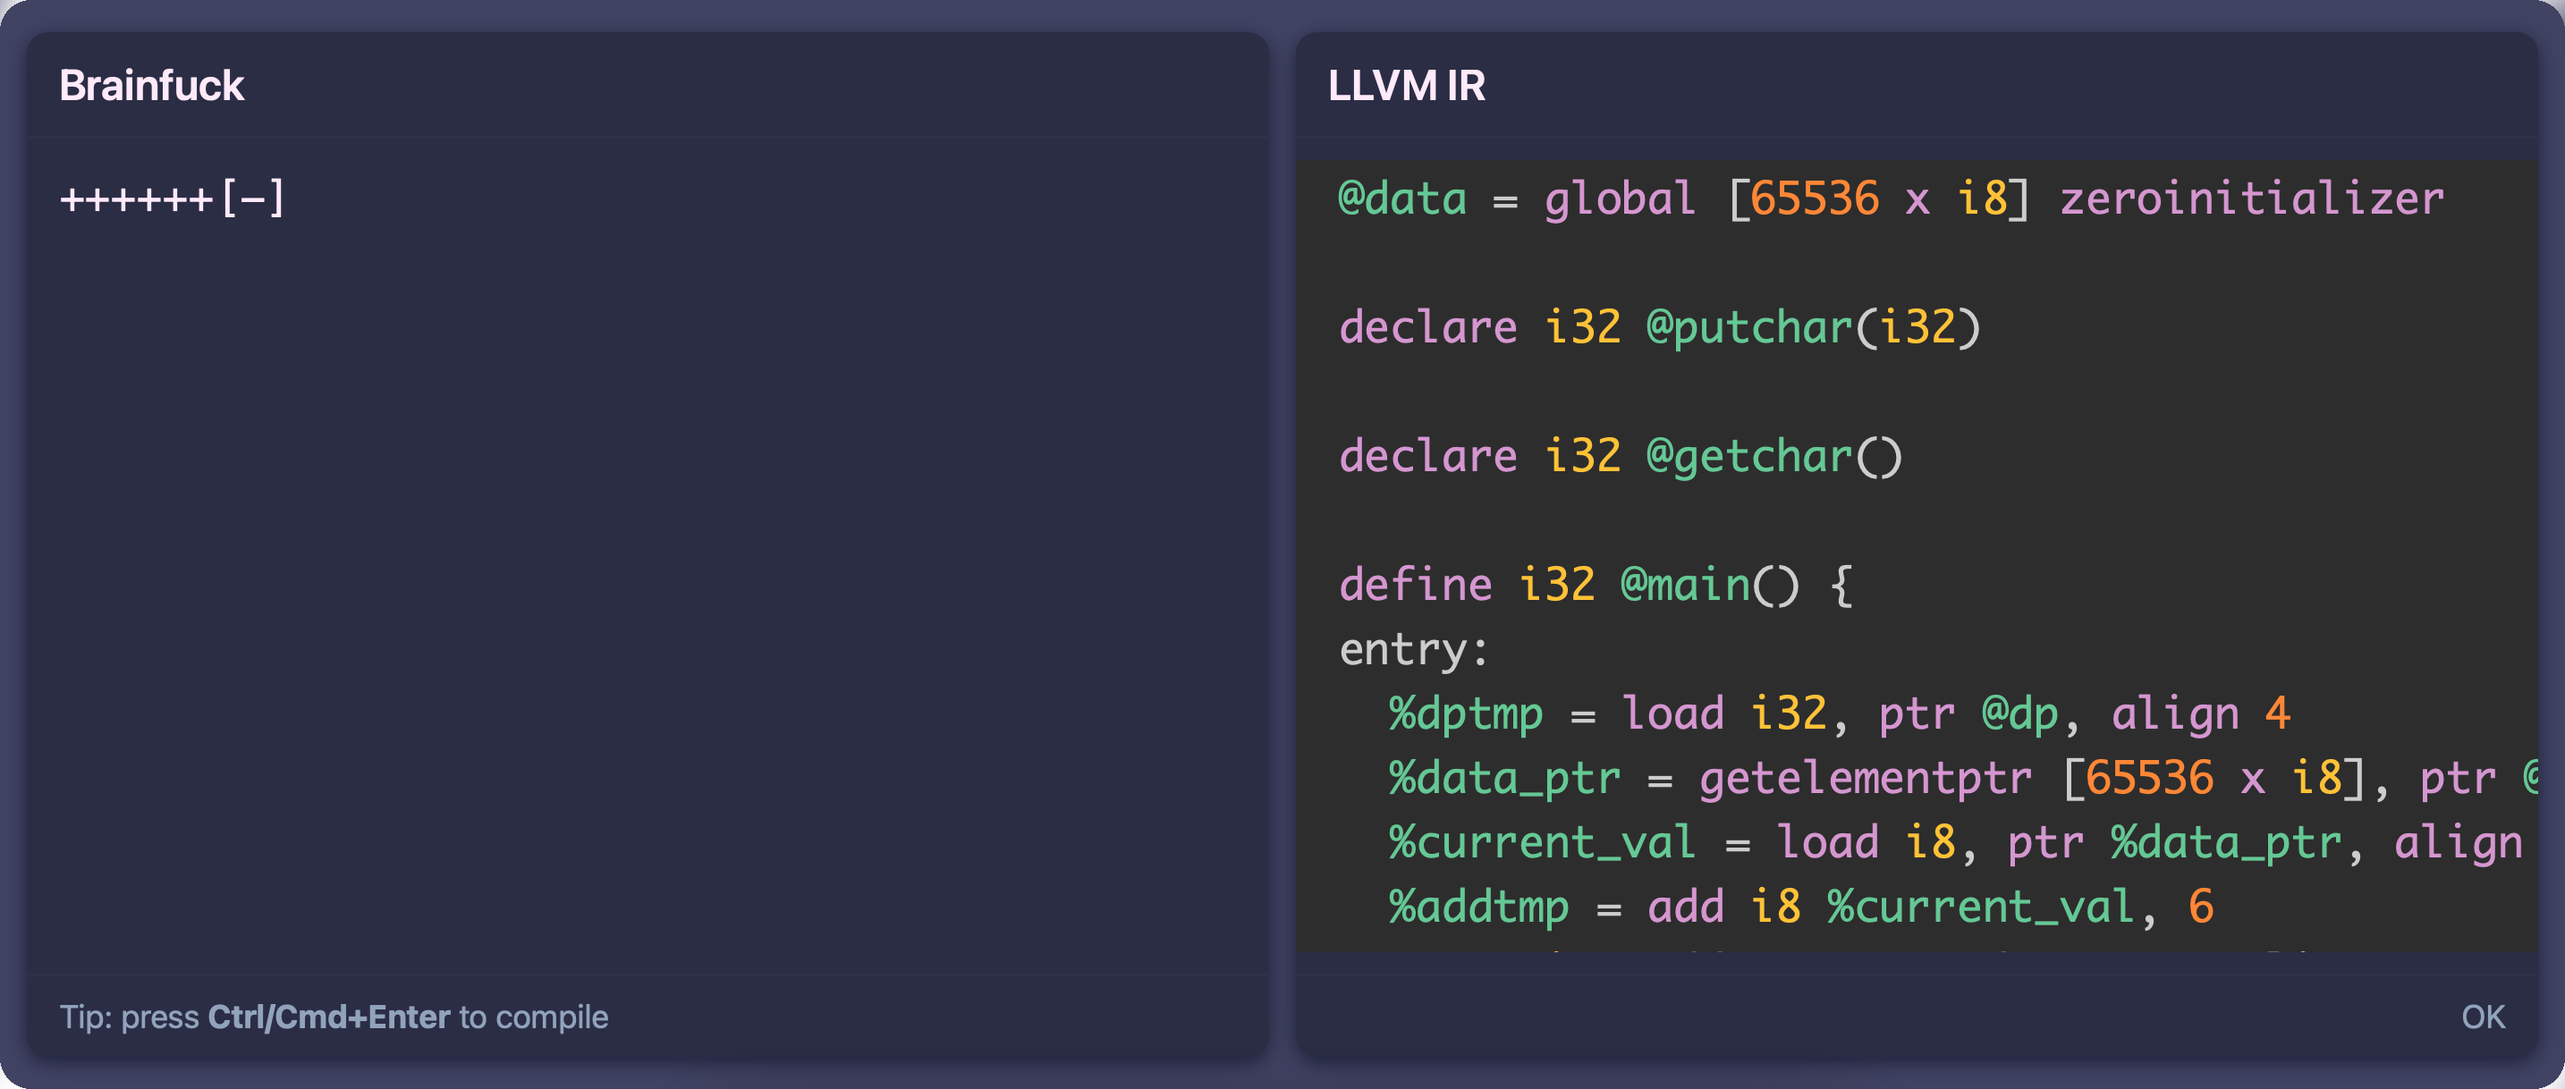
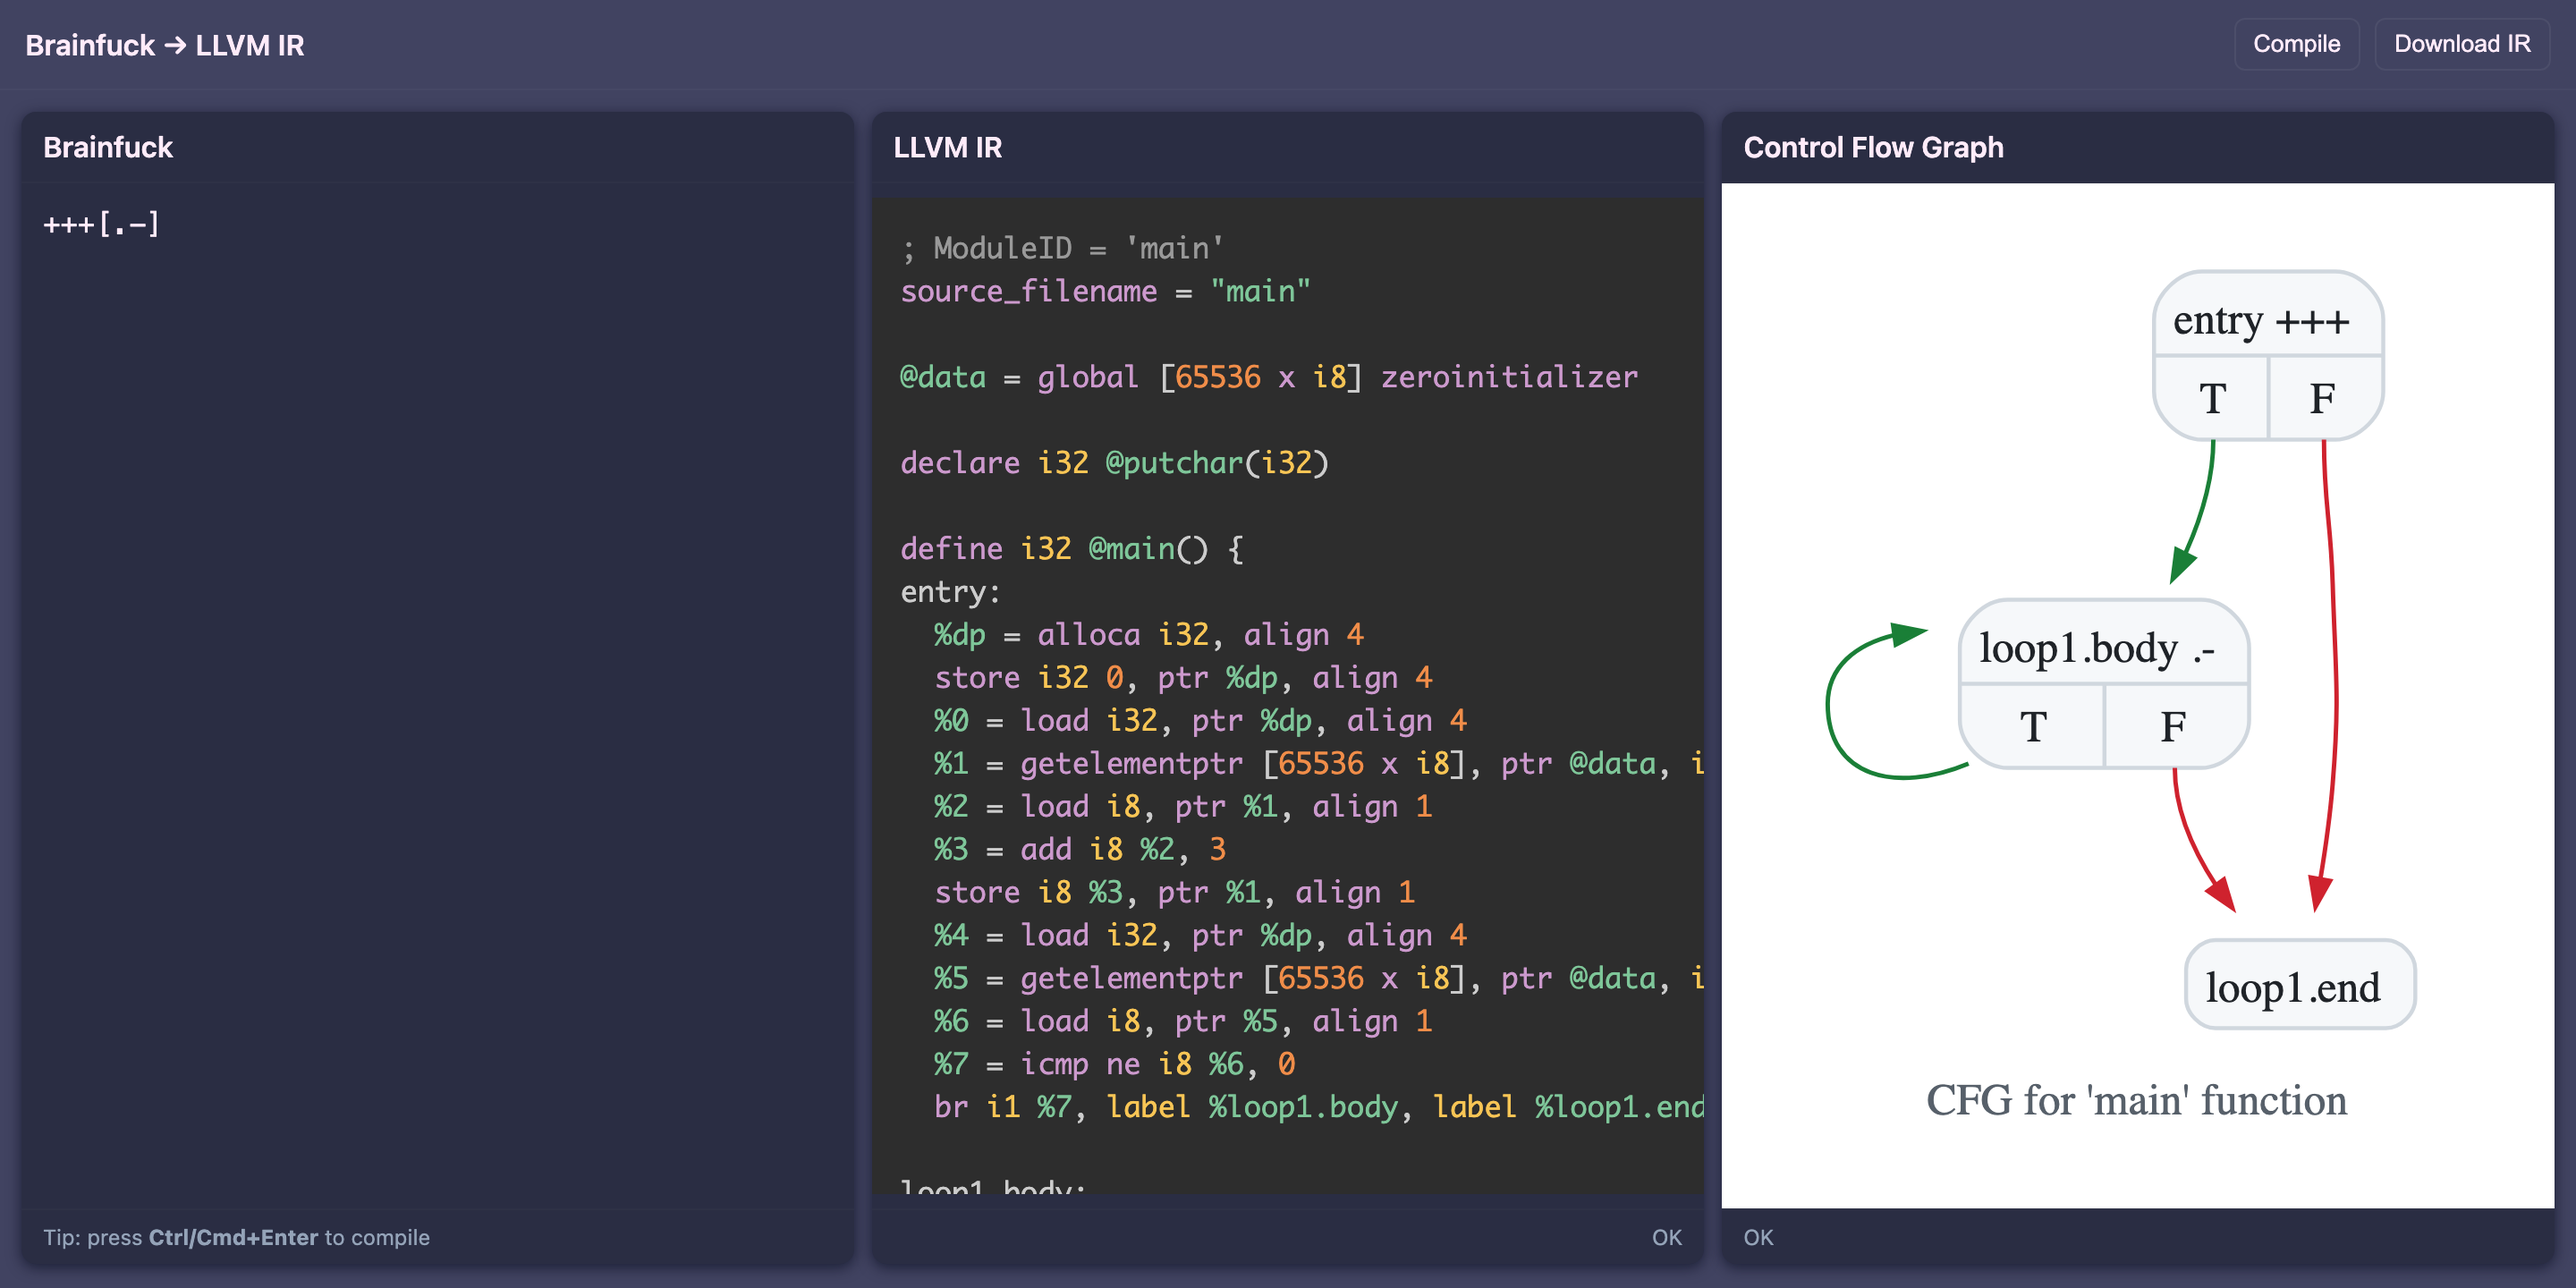
docs: document the CFG web pane and the --emit-cfg-dot pipeline
Note in the README that the web UI now shows the control flow graph
beside the source and IR, and rewrite the CFG section: bfc emits the dot
itself via --emit-cfg-dot (with --cfg-instructions for -i), so cfg.sh no
longer shells out to opt and there is no LLVM version skew to guard
against. Refresh the screenshot to the three-pane layout.

Update CLAUDE.md to match — the new bfc flag and graphing command, the
cfg_dot.cpp module and why the devShell now builds with the wrapped-clang
stdenv, and the backend's Graphviz/Python runtime dependencies.

diff --git a/CLAUDE.md b/CLAUDE.md
@@ -6,10 +6,10 @@ This file provides guidance to Claude Code (claude.ai/code) when working with co
 
 A Brainfuck-to-LLVM-IR compiler frontend written in C17. Produces two executables:
 
-- **`bfc`** — compiler: reads `.b` files (or stdin), emits LLVM IR to stdout
+- **`bfc`** — compiler: reads `.b` files (or stdin), emits LLVM IR to stdout, or the control flow graph as Graphviz dot with `--emit-cfg-dot`
 - **`bfi`** — interpreter: reads `.b` files and executes them directly
 
-Run the web demo with `docker compose up` (served at `http://localhost:8080`).
+Run the web demo with `docker compose up` (served at `http://localhost:8080`); it shows the source, compiled IR, and control flow graph side by side. The backend renders the graph via `bfc --emit-cfg-dot` → `highlight.py` → `dot`, so its runtime image also carries Graphviz and Python.
 
 ## Build
 
@@ -43,12 +43,11 @@ build/bfi test/res/helloworld.b
 `bfc` also reads from stdin when no file argument is given.
 
 ```bash
-# Graph the CFG (see README "Visualising the Control Flow Graph")
-build/bfc --label-blocks test/res/fib.b > fib.ll
-opt -passes=dot-cfg-only -disable-output fib.ll && dot -Tpng .main.dot -o cfg.png
+# Graph the CFG (raw dot; scripts/cfg.sh themes it — see README)
+build/bfc --emit-cfg-dot --label-blocks test/res/fib.b | dot -Tpng -o cfg.png
 ```
 
-`--label-blocks` appends each block's Brainfuck source span to its name. Use it without `-O`, since `simplifycfg` merges and renames blocks. `opt` must match the LLVM version `bfc` links against.
+`--emit-cfg-dot` makes `bfc` emit the control flow graph as Graphviz dot instead of LLVM IR (`--cfg-instructions` includes each block's instructions). `--label-blocks` appends each block's Brainfuck source span to its name; use it without `-O`, since `simplifycfg` merges and renames blocks.
 
 ## Common Build Targets
 
@@ -77,6 +76,8 @@ read.c  →  ir.c  →  interp.c (bfi path)
 **`ir.c/h`** — Parsing into the internal IR. `string_to_program()` converts a cleaned source string into a `struct program` — a heap-allocated array of `struct cmd`. The IR compresses consecutive identical simple commands into a single entry with a `simple_count` field, and pre-computes matching bracket indices stored in `jump_index` (no runtime bracket matching needed during execution).
 
 **`llvm.c/h`** — LLVM IR code generation. `generate()` takes a `struct program` and returns an `LLVMModuleRef`. Uses the LLVM-C API (`llvm-c/Core.h`).
+
+**`cfg_dot.cpp/h`** — Control-flow-graph emission, behind `bfc --emit-cfg-dot`. `emit_cfg_dot()` writes the module's CFG as Graphviz dot via LLVM's C++ `WriteGraph`. The project's only C++ translation unit, so the devShell builds with the wrapped-clang stdenv (see `flake.nix`).
 
 **`interp.c/h`** — Tree-walking interpreter. Execution state is held in `struct context_t` (program counter, data tape of `DATA_SIZE` = 65536 bytes, data pointer). `interp()` steps one command per call and returns 1 when the program completes.
 

diff --git a/README.md b/README.md
@@ -2,7 +2,7 @@
 
 A compiler frontend for the [Brainf*ck language](https://en.wikipedia.org/wiki/Brainfuck) that outputs code in LLVM Intermediate Representation (IR), which can then be compiled to any desired target architecture with `clang`.
 
-You can interact with it online [here](https://benmandrew.com/articles/compiler-frontend), or in a self-hosted web interface accessed at [`http://localhost:8080`](http://localhost:8080) after running
+You can interact with it online [here](https://benmandrew.com/articles/compiler-frontend), or in a self-hosted web interface — which shows the Brainf*ck source, the compiled LLVM IR, and its control flow graph side by side — accessed at [`http://localhost:8080`](http://localhost:8080) after running
 
 ```bash
 $ docker compose up
@@ -76,7 +76,7 @@ $ scripts/cfg.sh -o fib_cfg.svg test/res/fib.b  # extension picks the format
 $ scripts/cfg.sh -i test/res/fib.b              # with each block's IR, highlighted
 ```
 
-The script chains `bfc`, `opt` and `dot`, theming the graph and syntax-highlighting the IR on the way through; `scripts/cfg.sh -h` lists the remaining flags, and the two scripts document how the theming works and why the highlighting follows [Prism](https://prismjs.com/)'s LLVM grammar. It refuses to run when `opt` does not match the LLVM version `bfc` was built against, since a mismatched `opt` can quietly emit a misleading graph.
+`bfc --emit-cfg-dot` emits the graph as Graphviz dot directly — `-i` adds `--cfg-instructions` for the instruction-level view — so the script only chains `bfc` and `dot`, theming the graph and syntax-highlighting the IR on the way through with `highlight.py`. `scripts/cfg.sh -h` lists the remaining flags, and both scripts document how the theming works and why the highlighting follows [Prism](https://prismjs.com/)'s LLVM grammar. Because `bfc` produces the dot with the same LLVM it links against, there is no separate `opt` and no version skew to guard against.
 
 `-O` is off by default, because the `simplifycfg` pass merges and renames blocks, degrading the labels until the graph no longer mirrors the source.
 
